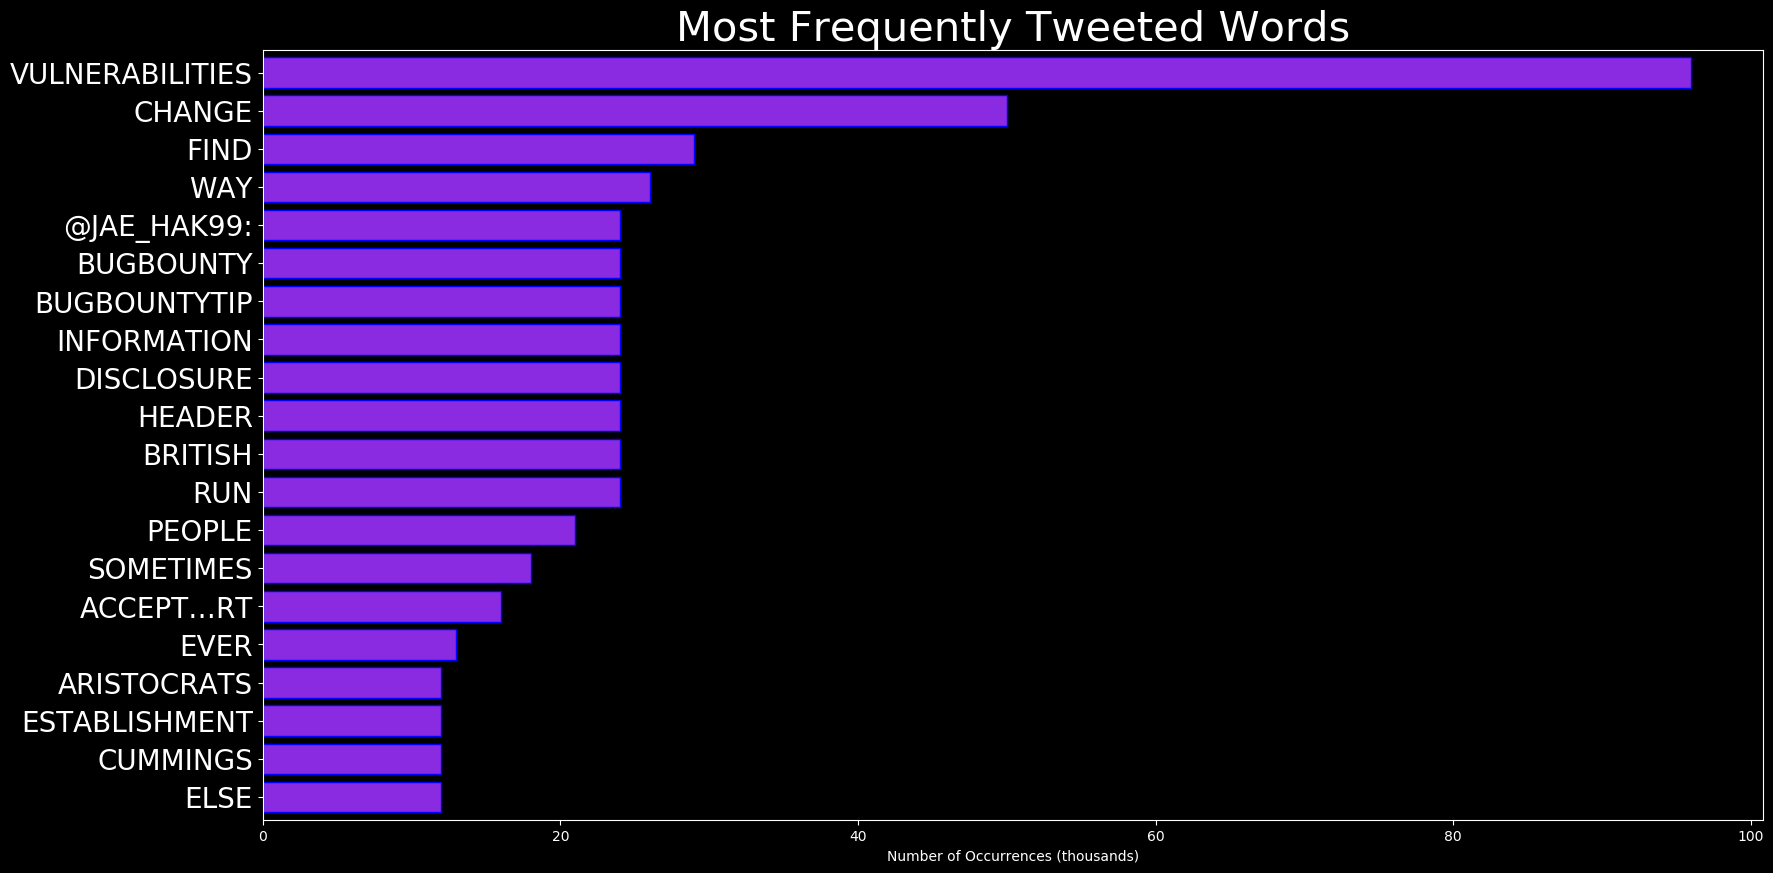
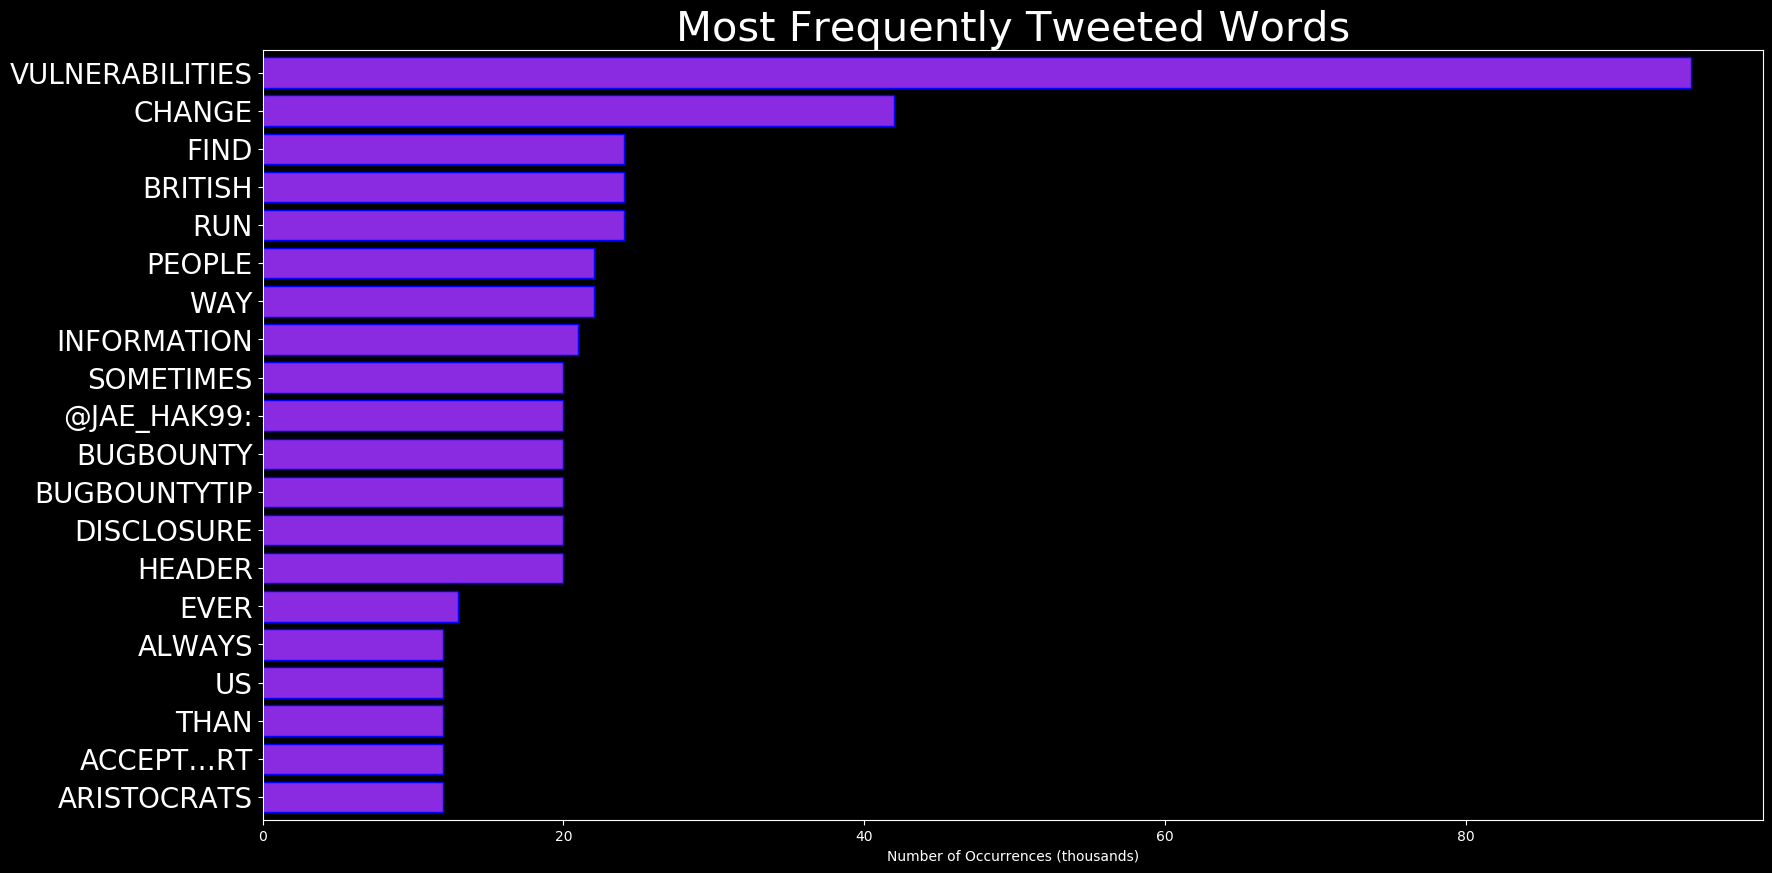
Next increment

diff --git a/assets/vulnerabilities/tweet2.html b/assets/vulnerabilities/tweet2.html
@@ -3,11 +3,10 @@
 			related tweet</i><br></br>  
 		<div id="quote"><center>
 <b style = "font-size:140%;color:silver"> 
-			RT @jae_hak99: #bugbounty #bugbountytip
+			RT @bad_packets: Active #DDoS malware command-and-control (C2) server detected. 
 
-One way to find information disclosure vulnerabilities is to change the header.
-
-Change the Accept…
+IP address: 194.15.36.47 (🇩🇪)
+Hosting provider: private-h…
 </b>
 </center>
 </div>

diff --git a/assets/vulnerabilities/tweet3.html b/assets/vulnerabilities/tweet3.html
@@ -3,7 +3,8 @@
 			related tweet</i><br></br>  
 		<div id="quote"><center>
 <b style = "font-size:140%;color:silver"> 
-			PTI interview of Chinese Ambassador: Is China trying to buy out Indian media? - The PTI’s media’s vulnerabilities t… https://t.co/mNxlsZOPZa
+			RT @TeriMye35095293: @RepublicanSwine 
+Knowing Putin's history, it would be likely, IMO, given the end goals of Putin/Russia, Putin 'set Tr…
 </b>
 </center>
 </div>

diff --git a/assets/vulnerabilities/tweet1.html b/assets/vulnerabilities/tweet1.html
@@ -3,8 +3,7 @@
 			related tweet</i><br></br>  
 		<div id="quote"><center>
 <b style = "font-size:140%;color:silver"> 
-			In your lowest times, be aware of your strengths. In your brightest times, be conscious of your vulnerabilities. 
-G… https://t.co/3weRJJ78nY
+			RT @cybergibbons: There's really not much reason in Android to put vulnerabilities in your app if you want to be malicious. You can just wr…
 </b>
 </center>
 </div>

diff --git a/assets/vulnerabilities/table2.html b/assets/vulnerabilities/table2.html
@@ -57,7 +57,7 @@
 					</td> 
 			  
 					  <td> 
-			WAY 
+			BRITISH 
 					</td> 
 			  
 					</tr>  
@@ -69,7 +69,7 @@
 					</td> 
 			  
 					  <td> 
-			@JAE_HAK99: 
+			RUN 
 					</td> 
 			  
 					</tr>  

diff --git a/assets/vulnerabilities/table1.html b/assets/vulnerabilities/table1.html
@@ -57,7 +57,7 @@
 					</td> 
 			  
 					  <td> 
-			0.5% 
+			1.0% 
 					</td> 
 			  
 					</tr>  
@@ -69,7 +69,7 @@
 					</td> 
 			  
 					  <td> 
-			2.0 
+			2.5 
 					</td> 
 			  
 					</tr>  

diff --git a/README.md b/README.md
@@ -29,9 +29,9 @@ The most popular user is: **MrsBundrige**
 
 |                **Sample-Tweets**        |
 | :-------------: |
-| In your lowest times, be aware of your strengths. In your brightest times, be conscious of your vulnerabilities. G… https://t.co/3weRJJ78nY |
-| RT @ennacore: try again? ❄— a khunbam au in which khun aguero agnis swore he was over the man who aguero used to give the world to, who… |
-| The British aristocrats run the British establishmentCummings or who ever else do not run this countryLike the Br… https://t.co/2wrPAUlqvL |
+| RT @cybergibbons: There's really not much reason in Android to put vulnerabilities in your app if you want to be malicious. You can just wr… |
+| RT @SwampSanitizer: From May 09, 2020: @Heritage's election fraud database shows vulnerabilities in the system and the many ways in which f… |
+| RT @cutabovedrest: Learn how Cisco Cyber Vision and ISA3000 can help you detect them and protect your industrial operations. #TalesByAkshat… |
 
 ## RELATED METRICS<br>
 | Metric | Value |
@@ -39,8 +39,8 @@ The most popular user is: **MrsBundrige**
 | #1 Most tweeted to  | **jae_hak99** |
 | #2 Most tweeted to  | **Lovehasnowords1** |
 | #3 Most tweeted to  | **KolaOyeneyin** |
-| NewProfiles (less than 10 days) | 0.5%  |
-| Tweeters with < 10 followers  | 2.0%|
+| NewProfiles (less than 10 days) | 1.0%  |
+| Tweeters with < 10 followers  | 2.5%|
 | Tweeters with > 1000000 followers  | 0.0%  |
 
 
@@ -53,19 +53,19 @@ The most popular user is: **MrsBundrige**
 | first  | **VULNERABILITIES**  |
 | second  | **CHANGE**  |
 | third  | **FIND** |
-| fourth  | **WAY**  |
-| fifth  | **@JAE_HAK99:**  |
+| fourth  | **BRITISH**  |
+| fifth  | **RUN**  |
 
 
 ## Twitter Bio Analysis![image](assets/vulnerabilities/BIO.png)
 ### SENTIMENT ANALYSIS
 ![image](assets/vulnerabilities/sentiment.png)
-VIEWS WERE : **SUBJECTIVE**  (53.33%) & **NEGATIVELY-SUBJECTIVE** (0.0%) **OBJECTIVE** (46.67%)
+VIEWS WERE : **SUBJECTIVE**  (40.0%) & **NEGATIVELY-SUBJECTIVE** (6.67%) **OBJECTIVE** (53.33%)
 
 ### TWEET SAMPLE 
 | Random value picked from array |
 | ------------- |
-|RT @seecra1: Average Cost of a Data Breach: $116M https://t.co/cdqpl90WvH #DataPrivacy #Cyberattacks https://t.co/a7OSxVUIsV |
+|@netflix @NetflixIndia @reedhastings So finally giving up on me? Wondering how BIG a revenue of one time $8 is to y… https://t.co/wKJhfgQDr9 |
 
 ### MOST RETWEETED 
 
@@ -74,6 +74,45 @@ VIEWS WERE : **SUBJECTIVE**  (53.33%) & **NEGATIVELY-SUBJECTIVE** (0.0%) **OBJEC
 | How old were you when you began seeing your parents as people and not as a “parental entity”? But as a person with… https://t.co/QBBFSoUzaS |
 
 # Potential Fake Accounts
+ 
+# makeover__USER INFO
+![image](http://pbs.twimg.com/profile_images/1277006786453790720/mPs0T_Qu_normal.jpg)
+ 
+`User ScreenName:` makeover__ 
+ 
+`User chosen Name:` Zaina 
+ 
+`Is the User Verified?:` False 
+ 
+`User signup date?:` Thu Jun 25 22:17:08 +0000 2020 
+ 
+`User Description?:` information technology, fresh graduate @_ksu | #CyberSecurity #قائدات_التقنية👩🏻💻 
+ 
+`Followers?: `6 
+ 
+`Following?:` 24 
+ 
+`User URL?:` None 
+ 
+`Location:` Kingdom of Saudi Arabia 
+ 
+`Number of tweets extracted`  : 23 
+ 
+`Profile image:` http://pbs.twimg.com/profile_images/1277006786453790720/mPs0T_Qu_normal.jpg 
+ 
+`Number of tweets excluding replies:` 25 
+ 
+
+ 
+
+ 
+## User Top tweeted words 
+ 
+**SECURITY** 8 , **INFORMATION** 5 , **USED** 4 , **DATA** 4 , **ATTACK** 3 , **ENGINEERING** 3 , **SOCIAL** 3 , **MEANS** 3 , **COMPUTER** 2 , **SHOULDER** 2 , **PHISHING:** 2 , **ELECTRONIC** 2 , **INTO** 2 , **THREAT** 2 , **FORM** 2 , **MAKING** 2 , **SURE** 2 , **MODIFIED** 2 , **METASPLOIT** 1 , **PROJECT:** 1 , 
+ 
+## What this user tweeted
+ 
+Metasploit Project: is a computer security project that provides information about security vulnerabilities and aid… https://t.co/Ck0kMJafYw
  
 # V_hrizUSER INFO
 ![image](http://pbs.twimg.com/profile_images/1276769420849922051/iftVQ8Uy_normal.jpg)
